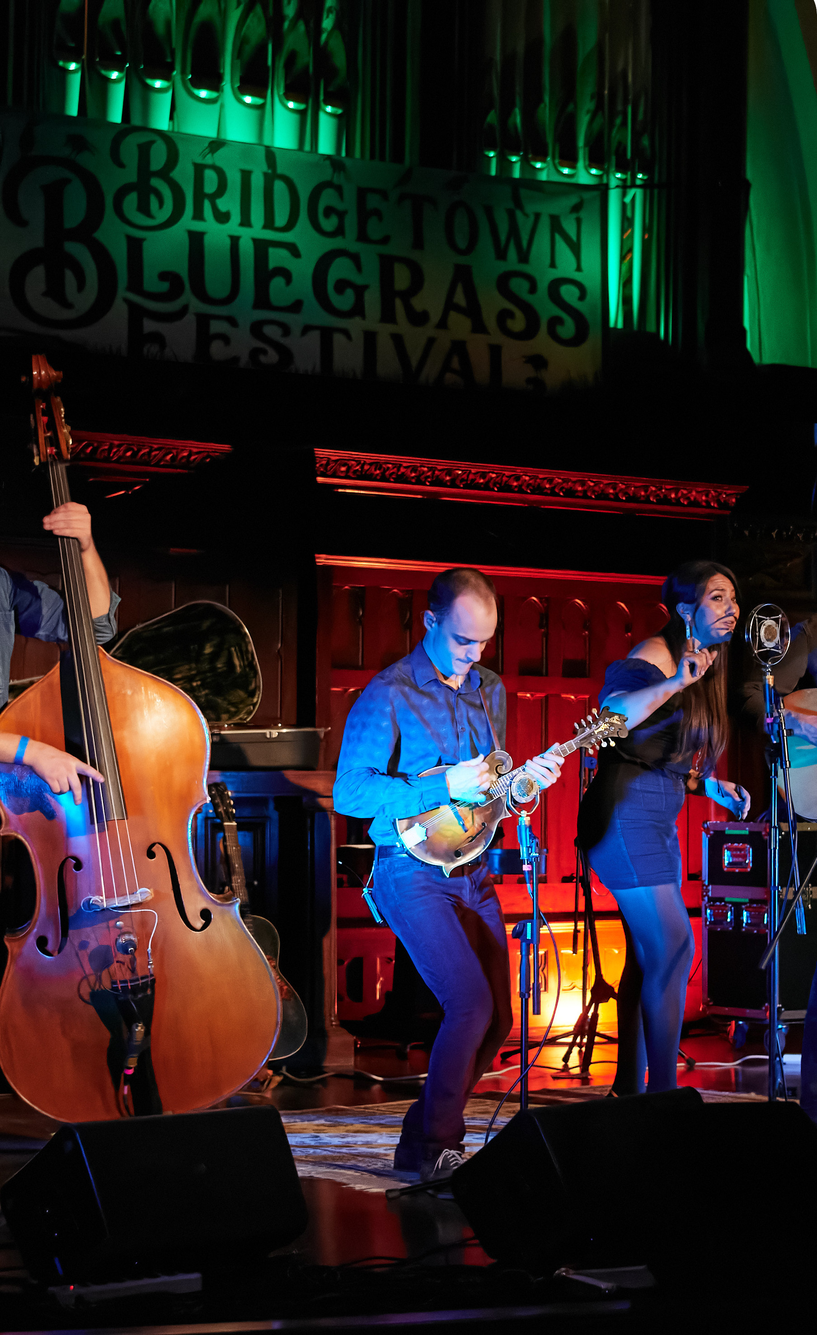
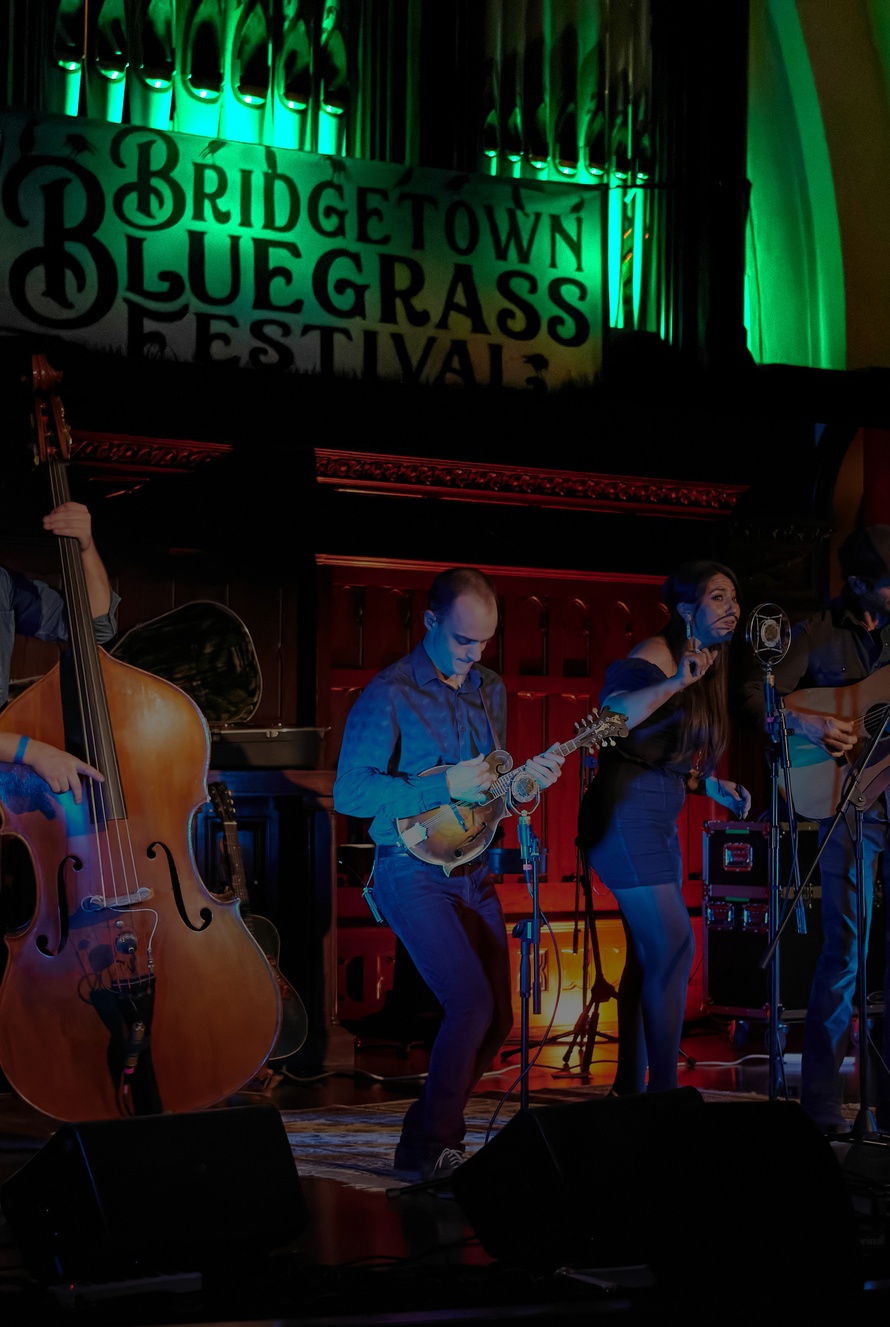
updated mobile landing pic

diff --git a/src/pages/index.js b/src/pages/index.js
@@ -42,7 +42,7 @@ export default function Home() {
                   objectFit: 'cover',
                   minWidth: '100%',
                   minH: '100%',
-                  opacity: 0.2,
+                  opacity: .8,
                 }}
               />
             </Hide>
